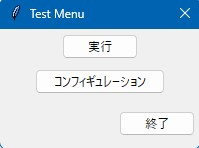
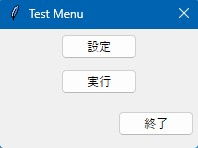
bugs in nocode document fixed

diff --git a/docs/no-code/index-ja.html b/docs/no-code/index-ja.html
@@ -700,7 +700,7 @@ header, .context-menu, .megamenu-content, footer{
 <title>index-ja</title>
 </head>
 <body class='typora-export os-windows'><div class='typora-export-content'>
-<div id='write'  class=''><h1 id='dialbbノーコードツールdialbb-ncドキュメント'><span>DialBBノーコードツール（DialBB-NC）ドキュメント</span></h1><h2 id='はじめに'><span>はじめに</span></h2><p><span>本ドキュメントはDialBBのノーコードツール（DialBB-NC）のドキュメントです．</span></p><h2 id='ver1xからの大きな変更点'><span>Ver1.xからの大きな変更点</span></h2><ul><li><p><strong><span>Python3.10では動かなくなりました</span></strong><span>．</span></p></li><li><p><span>言語理解，固有表現抽出がなくなり，代わりにスロット抽出が使えるようになりました．</span></p></li></ul><h2 id='動作環境'><span>動作環境</span></h2><p><span>Windows11，MacOSで動作します．</span></p><h2 id='インストール起動windows'><span>インストール・起動（Windows）</span></h2><h3 id='pythonのインストール'><span>Pythonのインストール</span></h3><ul><li><p><span>もし，すでにPythonがインストールされていれば，バージョンを確かめてください．インストールされていても，バージョンが3.11-3.14であれば，新しくインストールする必要はありません．3.10以前のPythonがインストールされている場合，使っていないならアンインストールしてください．使っている場合，DialBBの開発者（dialbb あっと c4a.jp）に相談してください．</span></p></li><li><p><span>Windows 11</span></p><ul><li><p><span>Pythonがインストールされていない場合，以下の手順でPythonをインストールします．</span></p><ul><li><p><span>ブラウザのアドレスバーに </span><a href='https://www.python.org/downloads/windows/' target='_blank' class='url'>https://www.python.org/downloads/windows/</a><span> を打ち込んでEnterキーを押します．</span></p></li><li><p><span>表示されている中から以下の部分を探します．以下は3.11.9ですが，3.11.x-3.14.xであれば，別のバージョンでも構いません．</span><strong><span>DialBB 2.0では3.11.x-3.14.xを利用してください．3.10.x以前と3.15.x以降は利用できません</span></strong><span>．</span></p></li></ul><p><img src="images/python-download-win.png" alt="python-install-win-ja"></p><ul><li><p><span>お持ちのPCが64bit OSの場合は，</span><a href='https://www.python.org/ftp/python/3.10.11/python-3.10.11-amd64.exe'><span>Windows installer (64-bit)</span></a><span>を，32bit OSの場合は</span><a href='https://www.python.org/ftp/python/3.10.11/python-3.10.11.exe'><span>Windows installer (32 -bit)</span></a><span>をクリックします．</span></p></li><li><p><span>「ダウンロード」フォルダに </span><code>python-3.13.14-amd64.exe</code><span>または</span><code>python-3.13.14-amd32.exe</code><span>というファイルができるので，ダブルクリックします．</span></p></li><li><p><span>以下の画面が現れます．</span></p><p><img src="images/python-setup-win.png" alt="python-setup-win"></p><ul><li><p><span>Add python.exe to PATHに</span><strong><span>チェックを入れてから</span></strong><span>Install Nowをクリックします．</span></p><p><img src="images/python-setup-win-path.png" alt="python-setup-win-path"></p></li><li><p><span>Pythonがインストールされます．</span></p></li></ul></li></ul></li></ul></li></ul><h3 id='dialbbのインストール'><span>DialBBのインストール</span></h3><ul><li><p><span>必要なファイルを以下の手順でダウンロードします．</span></p><ul><li><p><span>ブラウザから </span><a href='https://c4a-ri.github.io/dialbb/files/dialbb-setup.zip' target='_blank' class='url'>https://c4a-ri.github.io/dialbb/files/dialbb-setup.zip</a><span> にアクセスします．</span></p></li><li><p><code>ダウンロード</code><span>フォルダに</span><code>dialbb</code><span>ファイルがダウンロードされます．エクスプローラで</span><code>ダウンロード</code><span>フォルダを開いて確認してください．以下のようなファイルができているはずです．</span></p><p><img src="images/dialbb-setup-zip-icon.jpg" alt="dialbb-setup-zip-icon"></p><ul><li><p><span>このようにチャックの模様があるものをzipファイルと呼びます．環境によっては，</span><code>dialbb-setup.zip</code><span>という名前で表示されます．</span></p></li><li><p><span>複数回ダウンロードすると，新しくダウンロードしたものは</span><code>dialbb-setup(1)</code><span>のような名前になるので，その場合，</span><code>ダウンロード</code><span>フォルダの</span><code>dialbb-setup</code><span>を削除してからもう一度ダウンロードしてください．</span></p></li></ul></li></ul></li><li><p><span>エクスプローラで</span><code>dialbb-setup</code><span>アイコンの上にカーソルを持っていき右クリックし，「すべて展開」を選びます．出てきた画面で，「展開」を押してください．</span><code>dialbb-setup</code><span>フォルダができるので，それを開いてください．</span></p></li><li><p><span>install（環境によってはinstall.bat）をダブルクリックします．DialBBがインストールされます．</span></p><ul><li><p><span>「WindowsによってPCが保護されました」と出るかもしれません．その場合，「詳細情報」をクリックすると，「実行」ボタンが出てくるので，それを押してください．</span></p></li><li><p><code>Press any key to continue . . .</code><span>と表示されたらインストールは完了なので，何かキーを押して終了してください．</span></p></li></ul></li></ul><h3 id='起動'><span>起動</span></h3><p><code>dialbb-setup</code><span>フォルダ内で</span><code>start-dialbb-nc</code><span>（または</span><code>start-dialbb-nc.bat</code><span>）をダブルクリックします．</span></p><p><span>正常に起動するとメイン画面が表示されます．</span></p><div align="center">
+<div id='write'  class=''><h1 id='dialbbノーコードツールdialbb-ncドキュメント'><span>DialBBノーコードツール（DialBB-NC）ドキュメント</span></h1><h2 id='はじめに'><span>はじめに</span></h2><p><span>本ドキュメントはDialBBのノーコードツール（DialBB-NC）のドキュメントです．</span></p><h2 id='ver1xからの大きな変更点'><span>Ver1.xからの大きな変更点</span></h2><ul><li><p><strong><span>Python3.10では動かなくなりました</span></strong><span>．</span></p></li><li><p><span>言語理解，固有表現抽出がなくなり，代わりにスロット抽出が使えるようになりました．</span></p></li></ul><h2 id='動作環境'><span>動作環境</span></h2><p><span>Windows11，MacOSで動作します．</span></p><h2 id='インストール起動windows'><span>インストール・起動（Windows）</span></h2><h3 id='pythonのインストール'><span>Pythonのインストール</span></h3><ul><li><p><span>もし，すでにPythonがインストールされていれば，バージョンを確かめてください．インストールされていても，バージョンが3.11-3.14であれば，新しくインストールする必要はありません．3.10以前のPythonがインストールされている場合，使っていないならアンインストールしてください．使っている場合，DialBBの開発者（</span><code>dialbbあっとc4a.jp</code><span>）に相談してください（</span><code>”あっと&quot;</code><span>を</span><code>&quot;@&quot;</code><span>に置き換えてください。）．</span></p></li><li><p><span>Windows 11</span></p><ul><li><p><span>Pythonがインストールされていない場合，以下の手順でPythonをインストールします．</span></p><ul><li><p><span>ブラウザのアドレスバーに </span><a href='https://www.python.org/downloads/windows/' target='_blank' class='url'>https://www.python.org/downloads/windows/</a><span> を打ち込んでEnterキーを押します．</span></p></li><li><p><span>表示されている中から以下の部分を探します．以下は3.11.9ですが，3.11.x-3.14.xであれば，別のバージョンでも構いません．</span><strong><span>3.10.x以前と3.15.x以降は利用できません</span></strong><span>．</span></p></li></ul><p><img src="images/python-download-win.png" alt="python-install-win-ja"></p><ul><li><p><span>お持ちのPCが64bit OSの場合は，</span><a href='https://www.python.org/ftp/python/3.10.11/python-3.10.11-amd64.exe'><span>Windows installer (64-bit)</span></a><span>を，32bit OSの場合は</span><a href='https://www.python.org/ftp/python/3.10.11/python-3.10.11.exe'><span>Windows installer (32 -bit)</span></a><span>をクリックします．</span></p></li><li><p><span>「ダウンロード」フォルダに </span><code>python-3.13.14-amd64.exe</code><span>または</span><code>python-3.13.14-amd32.exe</code><span>というファイルができるので，ダブルクリックします．</span></p></li><li><p><span>以下の画面が現れます．</span></p><p><img src="images/python-setup-win.png" alt="python-setup-win"></p><ul><li><p><span>Add python.exe to PATHに</span><strong><span>チェックを入れてから</span></strong><span>Install Nowをクリックします．</span></p><p><img src="images/python-setup-win-path.png" alt="python-setup-win-path"></p></li><li><p><span>Pythonがインストールされます．</span></p></li></ul></li></ul></li></ul></li></ul><h3 id='dialbbのインストール'><span>DialBBのインストール</span></h3><ul><li><p><span>必要なファイルを以下の手順でダウンロードします．</span></p><ul><li><p><span>ブラウザから </span><a href='https://c4a-ri.github.io/dialbb/files/dialbb-setup.zip' target='_blank' class='url'>https://c4a-ri.github.io/dialbb/files/dialbb-setup.zip</a><span> にアクセスします．</span></p></li><li><p><code>ダウンロード</code><span>フォルダに</span><code>dialbb</code><span>ファイルがダウンロードされます．エクスプローラで</span><code>ダウンロード</code><span>フォルダを開いて確認してください．以下のようなファイルができているはずです．</span></p><p><img src="images/dialbb-setup-zip-icon.jpg" alt="dialbb-setup-zip-icon"></p><ul><li><p><span>このようにチャックの模様があるものをzipファイルと呼びます．環境によっては，</span><code>dialbb-setup.zip</code><span>という名前で表示されます．</span></p></li><li><p><span>複数回ダウンロードすると，新しくダウンロードしたものは</span><code>dialbb-setup(1)</code><span>のような名前になるので，その場合，</span><code>ダウンロード</code><span>フォルダの</span><code>dialbb-setup</code><span>を削除してからもう一度ダウンロードしてください．</span></p></li></ul></li></ul></li><li><p><span>エクスプローラで</span><code>dialbb-setup</code><span>アイコンの上にカーソルを持っていき右クリックし，「すべて展開」を選びます．出てきた画面で，「展開」を押してください．</span><code>dialbb-setup</code><span>フォルダができるので，それを開いてください．</span></p></li><li><p><span>install（環境によってはinstall.bat）をダブルクリックします．DialBBがインストールされます．</span></p><ul><li><p><span>「WindowsによってPCが保護されました」と出るかもしれません．その場合，「詳細情報」をクリックすると，「実行」ボタンが出てくるので，それを押してください．</span></p></li><li><p><code>Press any key to continue . . .</code><span>と表示されたらインストールは完了なので，何かキーを押して終了してください．</span></p></li></ul></li></ul><h3 id='起動'><span>起動</span></h3><p><code>dialbb-setup</code><span>フォルダ内で</span><code>start-dialbb-nc</code><span>（または</span><code>start-dialbb-nc.bat</code><span>）をダブルクリックします．</span></p><p><span>正常に起動するとメイン画面が表示されます．</span></p><div align="center">
   <img src="images/gui-main-ja.jpg" width="70%">
 </div><p>&nbsp;</p><h2 id='インストールと起動mac'><span>インストールと起動（Mac）</span></h2><h3 id='pythonのインストール-2'><span>Pythonのインストール</span></h3><p><span>Windowsの場合と同様，Python3.11-3.14がインストールされていれば，新たにインストールする必要はありません．</span></p><p><span>Pythonがインストールされていない場合，以下の手順でインストールしてください．</span></p><ul><li><p><a href='https://www.python.org/downloads/mac-osx/'><span>Pythonの公式ダウンロードサイト</span></a><span>にアクセスしてください．</span></p></li><li><p><span>適当なバージョン（例:3.13.14）の下の，</span><code>macOS 64-bit universal2 installer</code><span>をクリックし，ファイルをダウンロードします．</span></p></li><li><p><span>ダウンロードした </span><code>.pkg</code><span> ファイルを開いて，画面に表示される指示に従いインストールを進めてください．</span></p></li></ul><h3 id='dialbbのインストール-2'><span>DialBBのインストール</span></h3><p><a href='https://c4a-ri.github.io/dialbb/files/dialbb-setup.zip' target='_blank' class='url'>https://c4a-ri.github.io/dialbb/files/dialbb-setup.zip</a><span> から</span><code>dialbb-setup.zip</code><span>ファイルをダウンロードします．Downloadフォルダにダウンロードされます．ターミナルを開きます．適当なディレクトリ（DialBBディレクトリと呼びます）を作って移動してください．</span></p><p><span>そこで，</span></p><pre class="md-fences md-end-block ty-contain-cm modeLoaded" spellcheck="false" lang="sh"><div class="CodeMirror cm-s-inner cm-s-null-scroll CodeMirror-wrap" lang="sh"><div style="overflow: hidden; position: relative; width: 3px; height: 0px; top: 9.5162px; left: 7.98608px;"><textarea autocorrect="off" autocapitalize="off" spellcheck="false" tabindex="0" style="position: absolute; bottom: -1em; padding: 0px; width: 1000px; height: 1em; outline: none;"></textarea></div><div class="CodeMirror-scrollbar-filler" cm-not-content="true"></div><div class="CodeMirror-gutter-filler" cm-not-content="true"></div><div class="CodeMirror-scroll" tabindex="-1"><div class="CodeMirror-sizer" style="margin-left: 0px; margin-bottom: 0px; border-right-width: 0px; padding-right: 0px; padding-bottom: 0px;"><div style="position: relative; top: 0px;"><div class="CodeMirror-lines" role="presentation"><div role="presentation" style="position: relative; outline: none;"><div class="CodeMirror-measure"></div><div class="CodeMirror-measure"></div><div style="position: relative; z-index: 1;"></div><div class="CodeMirror-code" role="presentation"><div class="CodeMirror-activeline" style="position: relative;"><div class="CodeMirror-activeline-background CodeMirror-linebackground"></div><div class="CodeMirror-gutter-background CodeMirror-activeline-gutter" style="left: 0px; width: 0px;"></div><pre class=" CodeMirror-line " role="presentation"><span role="presentation" style="padding-right: 0.1px;">unzip ~/Downloads/dialbb-setup.zip</span></pre></div><pre class=" CodeMirror-line " role="presentation"><span role="presentation" style="padding-right: 0.1px;">pip install <span class="cm-attribute">--force-reinstall</span> *.whl</span></pre></div></div></div></div></div><div style="position: absolute; height: 0px; width: 1px; border-bottom: 0px solid transparent; top: 46px;"></div><div class="CodeMirror-gutters" style="display: none; height: 46px;"></div></div></div></pre><p><span>としてください．DialBBがインストールされます．</span></p><h3 id='起動-2'><span>起動</span></h3><p><span>ターミナルで以下を実行します．（ディレクトリはどこでも構いません）</span></p><pre class="md-fences md-end-block ty-contain-cm modeLoaded" spellcheck="false" lang="sh"><div class="CodeMirror cm-s-inner cm-s-null-scroll CodeMirror-wrap" lang="sh"><div style="overflow: hidden; position: relative; width: 3px; height: 0px; top: 9.5162px; left: 7.98608px;"><textarea autocorrect="off" autocapitalize="off" spellcheck="false" tabindex="0" style="position: absolute; bottom: -1em; padding: 0px; width: 1000px; height: 1em; outline: none;"></textarea></div><div class="CodeMirror-scrollbar-filler" cm-not-content="true"></div><div class="CodeMirror-gutter-filler" cm-not-content="true"></div><div class="CodeMirror-scroll" tabindex="-1"><div class="CodeMirror-sizer" style="margin-left: 0px; margin-bottom: 0px; border-right-width: 0px; padding-right: 0px; padding-bottom: 0px;"><div style="position: relative; top: 0px;"><div class="CodeMirror-lines" role="presentation"><div role="presentation" style="position: relative; outline: none;"><div class="CodeMirror-measure"><pre><span>xxxxxxxxxx</span></pre></div><div class="CodeMirror-measure"></div><div style="position: relative; z-index: 1;"></div><div class="CodeMirror-code" role="presentation"><div class="CodeMirror-activeline" style="position: relative;"><div class="CodeMirror-activeline-background CodeMirror-linebackground"></div><div class="CodeMirror-gutter-background CodeMirror-activeline-gutter" style="left: 0px; width: 0px;"></div><pre class=" CodeMirror-line " role="presentation"><span role="presentation" style="padding-right: 0.1px;">dialbb-nc</span></pre></div></div></div></div></div></div><div style="position: absolute; height: 0px; width: 1px; border-bottom: 0px solid transparent; top: 23px;"></div><div class="CodeMirror-gutters" style="display: none; height: 23px;"></div></div></div></pre><p><span>Macの場合少し画面が乱れます．（修正予定）</span></p><h2 id='アプリケーションの読み込み作成書き出し'><span>アプリケーションの読み込み・作成・書き出し</span></h2><h3 id='アプリケーションの読み込み新規作成'><span>アプリケーションの読み込み/新規作成</span></h3><ul><li><p><span>すでにあるアプリケーションを読み込む場合は，</span><code>選択</code><span>ボタンをクリックし，読み込むアプリケーションのzipファイルを選択し，</span><code>読み込み</code><span>を押します．</span></p><div align="center">
   <img src="images/gui-select-file-ja.jpg" width="60%">
@@ -708,15 +708,15 @@ header, .context-menu, .megamenu-content, footer{
   <img src="images/gui-create-ja.jpg" width="60%">
 </div></li><li><p><span>その時点で読み込まれているアプリケーションの名前（zipファイルの名前）がメイン画面の</span><code>Current application</code><span>のところに表示されます．</span></p></li></ul><h3 id='アプリケーションの書き出し'><span>アプリケーションの書き出し</span></h3><ul><li><p><code>書き出し</code><span>ボタンをクリックし，保存する場所/ファイル名を指定します，zipファイルにまとめて保存されます．  </span></p><div align="center">
   <img src="images/gui-export-ja.jpg" width="60%">
-</div></li></ul><h2 id='アプリケーションの起動停止'><span>アプリケーションの起動・停止</span></h2><h3 id='api-キーの登録'><span>API キーの登録</span></h3><p><span>最初にDialBB-NCを使うときや，DialBBのインストールをし直した後には，利用する大規模言語モデル（ChatGPTなど）のためのAPIキーの登録が必要です．例えば，ChatGPTを使う場合には，OpenAIのAPIキーの登録が必要です（ OpenAIのAPIキーの入手方法は別途「OpenAI API キー」などで検索して調べてください（少額ですが有料です）．登録は以下のようにします．</span></p><ul><li><p><code>APIキー</code><span>ボタンを押しますと設定画面が出ます． </span></p><div align="center">
+</div></li></ul><h2 id='アプリケーションの起動停止'><span>アプリケーションの起動・停止</span></h2><h3 id='api-キーの登録'><span>API キーの登録</span></h3><p><span>最初にDialBB-NCを使うときや，DialBBのインストールをし直した後には，利用する大規模言語モデル（ChatGPTなど）のためのAPIキーの登録が必要です．例えば，ChatGPTを使う場合には，OpenAIのAPIキーの登録が必要です（ OpenAIのAPIキーの入手方法は別途「OpenAI API キー」などで検索して調べてください.  少額ですが有料です）．登録は以下のようにします．</span></p><ul><li><p><code>APIキー</code><span>ボタンを押すと設定画面が出ます． </span></p><div align="center">
   <img src="images/api-ja.jpg" width="30%">
-</div></li><li><p><code>OPENAI_API_KEY</code><span>の右側に別途入手したOpenAIのAPIキーを入力し，</span><code>OK</code><span>ボタンを押します．</span><code>保存しました</code><span>という表示が出るので再度</span><code>OK</code><span>ボタンを押します．</span></p></li><li><p><span>後述の設定画面やテストでGeminiやClaudeを選ぶ場合は，それぞれ</span><code>GOOGLE_API_KEY</code><span>，</span><code>ANTHROPIC_API_KEY</code><span>が必要です．</span></p></li><li><p><span>入力したAPIキーは暗号化して保存されますが，DialBBのプログラムがあれば復号できるので，個人用PC以外では保存しないようにしてください．消去する場合には，各キーに他の文字列をセットするか，DialBBをアンインストールしてください．</span></p></li></ul><h3 id='対話の実行'><span>対話の実行</span></h3><ul><li><p><code>対話開始</code><span>ボタンを押すと対話ができます．</span><code>ユーザ入力</code><span>フィールドに発話を入力して対話をしてください．</span></p><div align="center">
+</div></li><li><p><code>OPENAI_API_KEY</code><span>の右側に別途入手したOpenAIのAPIキーを入力し，</span><code>OK</code><span>ボタンを押します．「保存しました」という表示が出るので再度</span><code>OK</code><span>ボタンを押します．</span></p></li><li><p><span>後述の設定画面やテストでGeminiやClaudeを選ぶ場合は，それぞれ</span><code>GOOGLE_API_KEY</code><span>，</span><code>ANTHROPIC_API_KEY</code><span>が必要です．</span></p></li><li><p><span>入力したAPIキーは暗号化して保存されますが，DialBBのプログラムがあれば復号できるので，個人用PC以外では保存しないようにしてください．消去する場合には，各キーに他の文字列をセットするか，DialBBをアンインストールしてください．</span></p></li></ul><h3 id='対話の実行'><span>対話の実行</span></h3><ul><li><p><code>対話開始</code><span>ボタンを押すと対話ができます．</span><code>ユーザ入力</code><span>フィールドに発話を入力して対話をしてください．</span></p><div align="center">
   <img src="images/chat-ja.jpg" width="60%">
 </div></li></ul><h3 id='テスト'><span>テスト</span></h3><p><span>ユーザシミュレーションを利用したテストができます．後で詳細に説明します．</span></p><h3 id='対話サーバの使い方上級用'><span>対話サーバの使い方(上級用)</span></h3><p><span>Webサーバとしてアプリケーションを動かし，他のプログラムと連携させたりできます．</span></p><h4 id='起動-3'><span>起動</span></h4><ul><li><p><code>サーバ起動</code><span>ボタンをクリックします．アプリケーションサーバが起動します．</span></p></li><li><p><span>ChromeやEdgeなどのブラウザを開き，アドレスバーに</span><code>http://localhost:8080/</code><span>を打ち込んでEnterを押します．以下のようなチャット画面が表示されます．</span></p><div align="center">
   <img src="images/frontend.png" width="60%">
-</div></li><li><p><code>start dialogue</code><span>ボタンを押すと会話が開始されます．</span></p></li><li><p><span>再度最初から会話を始めたい場合はブラウザのリロードボタンを押してください．</span></p></li><li><p><code>http://localhost:8080/test</code><span> にアクセスするとシンプルな画面が出ます．</span></p></li></ul><h4 id='停止'><span>停止</span></h4><ul><li><p><span>メインGUIで</span><code>サーバ停止</code><span>ボタンを押すとアプリケーションサーバが停止します．</span></p></li></ul><h4 id='ログ'><span>ログ</span></h4><ul><li><p><span>ブラウザからアクセスしても画面が出ない場合や対話がうまくいかない場合は，</span><code>ログ表示</code><span>ボタンを押し，ログを見て近くのエンジニアか</span><a href='mailto:[email redacted]'><span>DialBB開発者</span></a><span>に相談してください．</span></p></li><li><p><span>ログはホームフォルダ（ホームディレクトリ）の中の</span><code>.dialbb_nc_logs</code><span>フォルダの中に書きだされます．</span></p><ul><li><p><span>ホームフォルダは，Windowsの場合，</span><code>C:\Users\&lt;ユーザ名&gt;</code><span>です．</span></p></li><li><p><span>ログは日付毎にフォルダにまとまっています．</span></p></li><li><p><span>ログファイルは</span><code>&lt;アプリケーションが起動した時間&gt;.txt</code><span>です．</span></p></li></ul></li></ul><h3 id='アンインストール'><span>アンインストール</span></h3><p><code>dialbb-setup</code><span>フォルダの中にある，uninstallというアイコンをダブルクリックするとDialBBがアンインストールできます．</span></p><h2 id='アプリケーションの編集'><span>アプリケーションの編集</span></h2><h3 id='コンフィギュレーションの変更'><span>コンフィギュレーションの変更</span></h3><p><span>  </span><code>設定</code><span>ボタンを押すと，以下の画面が表示されます．</span></p>  <div align="center">
+</div></li><li><p><code>start dialogue</code><span>ボタンを押すと会話が開始されます．</span></p></li><li><p><span>再度最初から会話を始めたい場合はブラウザのリロードボタンを押してください．</span></p></li><li><p><code>http://localhost:8080/test</code><span> にアクセスするとシンプルな画面が出ます．</span></p></li></ul><h4 id='停止'><span>停止</span></h4><ul><li><p><span>メインGUIで</span><code>サーバ停止</code><span>ボタンを押すとアプリケーションサーバが停止します．</span></p></li></ul><h4 id='ログ'><span>ログ</span></h4><ul><li><p><span>ブラウザからアクセスしても画面が出ない場合や対話がうまくいかない場合は，</span><code>サーバログ表示</code><span>ボタンを押し，ログを見て近くのエンジニアか</span><a href='mailto:[email redacted]'><span>DialBB開発者</span></a><span>に相談してください．</span></p></li><li><p><span>ログはホームフォルダ（ホームディレクトリ）の中の</span><code>.dialbb_nc_logs</code><span>フォルダの中に書きだされます．</span></p><ul><li><p><span>ホームフォルダは，Windowsの場合，</span><code>C:\Users\&lt;ユーザ名&gt;</code><span>です．</span></p></li><li><p><span>ログは日付毎にフォルダにまとまっています．</span></p></li><li><p><span>ログファイルは</span><code>&lt;アプリケーションが起動した時間&gt;.txt</code><span>です．</span></p></li></ul></li></ul><h3 id='アンインストール'><span>アンインストール</span></h3><p><code>dialbb-setup</code><span>フォルダの中にある，uninstallというアイコンをダブルクリックするとDialBBがアンインストールできます．</span></p><h2 id='アプリケーションの編集'><span>アプリケーションの編集</span></h2><h3 id='コンフィギュレーションの変更'><span>コンフィギュレーションの変更</span></h3><p><span>  </span><code>設定</code><span>ボタンを押すと，以下の画面が表示されます．</span></p>  <div align="center">
     <img src="images/edit-config-ja.jpg" width="50%">
-  </div><p><span>以下が各編集項目の説明です．</span></p><figure class='table-figure'><table><thead><tr><th><span>編集項目</span></th><th><span>説明</span></th></tr></thead><tbody><tr><td><span>スロット抽出を行いますか？</span></td><td><span>固有表現抽出（後述）を行うかどうかを選択します．(上級用)</span></td></tr><tr><td><span>モデル</span></td><td><span>利用する大規模言語モデル（LLM）を選択します．</span><code>その他</code><span>を押すと，プルダウンにないモデルを追加できます．</span></td></tr><tr><td><span>状況</span></td><td><span>LLMのプロンプトに書く状況を入力します．1行ごとに状況を記述します．</span></td></tr><tr><td><span>ペルソナ</span></td><td><span>LLMのプロンプトに書くシステムのペルソナを入力します．1行ごとにペルソナを記述します．</span></td></tr><tr><td><span>注意事項</span></td><td><span>LLMのプロンプトに書く注意事項を記述します．（システムノードでのみ用いられます．）</span></td></tr></tbody></table></figure><hr /><h3 id='シナリオファイルの編集'><span>シナリオファイルの編集</span></h3><p><code>シナリオ編集</code><span>ボタンを押すと，シナリオエディタが表示されます．</span></p><h4 id='シナリオエディタの概要'><span>シナリオエディタの概要</span></h4><p><span>シナリオは，システムノードとユーザノードがリンクで接続されたものです．システムノードではシステム発話を記述し，ユーザノードでは，遷移の条件を記述します．priorityの値が高い順に遷移の条件を調べていき，条件が満たされれば，その次のシステムノードに遷移します．</span><strong><span>どのユーザノードの遷移の条件も満たされない場合，同じシステムノードに戻って，システム発話が生成されます．</span></strong></p><p><span>システムノードは複数のユーザにリンクが出て行き，ユーザノードからは一つだけのノードにリンクが出て行きます．（ノード右側コネクタが出口，ノード左側が入口です）</span></p><p><span>以下の説明の画像には古いバージョンのものがあります．ver2.0以降では，</span><strong><span>ユーザノードには発話タイプがありません</span></strong><span>．</span></p><p><span>システム発話や遷移の条件の記述については，後で説明します．</span></p><div align="center">
+  </div><p><span>以下が各編集項目の説明です．</span></p><figure class='table-figure'><table><thead><tr><th><span>編集項目</span></th><th><span>説明</span></th></tr></thead><tbody><tr><td><span>スロット抽出を行いますか？</span></td><td><span>固有表現抽出（後述）を行うかどうかを選択します．(上級用)</span></td></tr><tr><td><span>モデル</span></td><td><span>利用する大規模言語モデル（LLM）を選択します．</span><code>追加</code><span>を押すと，プルダウンにないモデルを追加できます．</span></td></tr><tr><td><span>状況</span></td><td><span>LLMのプロンプトに書く状況を入力します．1行ごとに状況を記述します．</span></td></tr><tr><td><span>ペルソナ</span></td><td><span>LLMのプロンプトに書くシステムのペルソナを入力します．1行ごとにペルソナを記述します．</span></td></tr><tr><td><span>注意事項</span></td><td><span>LLMのプロンプトに書く注意事項を記述します．（システムノードでのみ用いられます．）</span></td></tr></tbody></table></figure><hr /><h3 id='シナリオファイルの編集'><span>シナリオファイルの編集</span></h3><p><code>シナリオ編集</code><span>ボタンを押すと，シナリオエディタが表示されます．</span></p><h4 id='シナリオエディタの概'><span>シナリオエディタの概</span></h4><p><span>シナリオは，システムノードとユーザノードがリンクで接続されたものです．システムノードではシステム発話を記述し，ユーザノードでは，遷移の条件を記述します．priorityの値が高い順に遷移の条件を調べていき，条件が満たされれば，その次のシステムノードに遷移します．</span><strong><span>どのユーザノードの遷移の条件も満たされない場合，同じシステムノードに戻って，システム発話が生成されます．</span></strong></p><p><span>システムノードは複数のユーザにリンクが出て行き，ユーザノードからは一つだけのノードにリンクが出て行きます．（ノード右側コネクタが出口，ノード左側が入口です）</span></p><p><span>以下の説明の画像には古いバージョンのものがあります．ver2.0以降では，</span><strong><span>ユーザノードには発話タイプがありません</span></strong><span>．</span></p><p><span>システム発話や遷移の条件の記述については，後で説明します．</span></p><div align="center">
   <img src="images/scenario-editor-ja.jpg" width="90%">
 </div><h4 id='ノードの追加'><span>ノードの追加</span></h4><p><span>背景で右クリック し，</span><code>システムノード追加</code><span>か</span><code>ユーザノード追加</code><span>を選択するとシステムノードかユーザノードが新規追加されます． </span></p><div align="center">
   <img src="images/add-node-ja.jpg" width="80%">
@@ -726,7 +726,7 @@ header, .context-menu, .megamenu-content, footer{
   <img src="images/sys-setting-ja.jpg" width="40%"> <img src="images/user-setting-ja.jpg" width="48%">
 </div><p><span>ノードの編集の仕方は後述します．</span></p><h4 id='コネクタの接続削除'><span>コネクタの接続・削除</span></h4><p><span>ノード右側〇を左クリックし，他ノードの左側〇へドラッグして接続します．</span></p><div align="center">
   <img src="images/editor-connection-ja.jpg" width="50%">
-</div><p><span>削除はコネクター上で右クリック し</span><code>削除</code><span>を選択するか，選択した状態でDelキーを押すと削除されます．</span></p><div align="center">
+</div><p><span>削除はコネクタ上で右クリック し</span><code>削除</code><span>を選択するか，選択した状態でDelキーを押すと削除されます．</span></p><div align="center">
   <img src="images/editor-conn-del-ja.jpg" width="50%">
 </div><h4 id='元に戻すやり直し'><span>元に戻す／やり直し</span></h4><p><span>変更を戻すときには上部の</span><code>元に戻す</code><span>ボタン，やり直しをする時は</span><code>やり直し</code><span>ボタンを押してください．コントロールキーを押しながら</span><code>z</code><span>／</span><code>y</code><span>でも操作が可能です.  </span></p><h4 id='保存'><span>保存</span></h4><p><span>上部の</span><code>保存</code><span>ボタンをクリックすると保存します．保存しないでエディタを終了した場合は変更データが失われます．</span></p><h4 id='再読み込み'><span>再読み込み</span></h4><p><span>上部の</span><code>再読み込み</code><span>ボタンをクリックすると最後に保存されたデータを読み込みます．大規模な状態遷移図の編集ではこまめに保存をしておけばその状態まで復元することが可能です．</span></p><h4 id='拡大縮小'><span>拡大／縮小</span></h4><p><span>マウスの</span><code>ホイール</code><span>を使いズームイン／ズームアウトが可能です．  </span></p><h4 id='キャンバスの移動'><span>キャンバスの移動</span></h4><p><span>マウスの</span><code>中ボタン</code><span>またはコントロールキーを押しながら</span><code>左クリック</code><span>で全体をドラッグできます．</span></p><h4 id='シナリオエディタの終了'><span>シナリオエディタの終了</span></h4><p><span>メインGUIで</span><code>シナリオ編集終了</code><span>ボタンを押すとエディタウィンドウが閉じます．</span></p><h4 id='システムノードの編集の仕方'><span>システムノードの編集の仕方</span></h4><p><span>システムノードをダブルクリックすると以下のような入力ダイアログが表示されますので，中身を書き換えて</span><code>保存</code><span>ボタンを押します．</span><code>キャンセル</code><span>ボタンを押すと保存せずに閉じます．</span></p><div align="center">
   <img src="images/sys-setting-ja.jpg" width="50%">
@@ -745,20 +745,20 @@ header, .context-menu, .megamenu-content, footer{
   <img src="images/user-setting-ja.jpg" width="50%">
 </div><p><code>優先度</code><span>はこのユーザノードの優先度を表す整数です．一つのシステムノードからつながっているユーザノードのうち，priority numberの高い順に条件がチェックされます．この数字は，シナリオを保存する度にリセットされ，大きいものから順に100, 90, 80, ...に変更されます．</span></p><p><code>遷移の条件</code><span>にはこのユーザノードの条件を書きます．両方が満たされたとき，このユーザノードの次のシステムノードに移行します．</span></p><p><code>遷移の条件</code><span>には，この遷移が使われる条件を書きます．条件が複数ある場合は，&quot;;&quot;でつなぎます．条件には以下のようなものが書けます．</span></p><ul><li><p><code>$インストラクション$</code><span> </span>
 <span>ChatGPTにインストラクションを与えて条件判定をさせます．このとき，コンフィギュレーションで指定したsituationとpersonaが用いられます．</span>
-<span>例： </span><code>$ユーザが会話に飽きたかどうかを判断してください．$</code><span> </span></p></li><li><p><code>$$$&lt;プロンプトテンプレート&gt;$$$</code></p><p><span>ChatGPTにプロンプトを与えて条件判定をさせます．プロンプトはプロンプトテンプレートから作られます．プロンプトテンプレートは改行を含んでも構いません．以下が例です．</span></p><pre class="md-fences md-end-block ty-contain-cm modeLoaded" spellcheck="false" lang="" style="break-inside: unset;"><div class="CodeMirror cm-s-inner cm-s-null-scroll CodeMirror-wrap" lang=""><div style="overflow: hidden; position: relative; width: 3px; height: 0px; top: 9.5162px; left: 7.98615px;"><textarea autocorrect="off" autocapitalize="off" spellcheck="false" tabindex="0" style="position: absolute; bottom: -1em; padding: 0px; width: 1000px; height: 1em; outline: none;"></textarea></div><div class="CodeMirror-scrollbar-filler" cm-not-content="true"></div><div class="CodeMirror-gutter-filler" cm-not-content="true"></div><div class="CodeMirror-scroll" tabindex="-1"><div class="CodeMirror-sizer" style="margin-left: 0px; margin-bottom: 0px; border-right-width: 0px; padding-right: 0px; padding-bottom: 0px;"><div style="position: relative; top: 0px;"><div class="CodeMirror-lines" role="presentation"><div role="presentation" style="position: relative; outline: none;"><div class="CodeMirror-measure"><pre><span>xxxxxxxxxx</span></pre></div><div class="CodeMirror-measure"></div><div style="position: relative; z-index: 1;"></div><div class="CodeMirror-code" role="presentation" style=""><div class="CodeMirror-activeline" style="position: relative;"><div class="CodeMirror-activeline-background CodeMirror-linebackground"></div><div class="CodeMirror-gutter-background CodeMirror-activeline-gutter" style="left: 0px; width: 0px;"></div><pre class=" CodeMirror-line " role="presentation"><span role="presentation" style="padding-right: 0.1px;">$$$</span></pre></div><pre class=" CodeMirror-line " role="presentation"><span role="presentation" style="padding-right: 0.1px;"># 状況</span></pre><pre class=" CodeMirror-line " role="presentation"><span role="presentation" style="padding-right: 0.1px;"><span cm-text="" cm-zwsp="">
+<span>例： </span><code>$ユーザが会話に飽きたかどうかを判断してください．$</code><span> </span></p></li><li><p><code>$$$&lt;プロンプトテンプレート&gt;$$$</code></p><p><span>ChatGPTにプロンプトを与えて条件判定をさせます．プロンプトはプロンプトテンプレートから作られます．プロンプトテンプレートは改行を含んでも構いません．以下が例です．</span></p><pre class="md-fences md-end-block ty-contain-cm modeLoaded" spellcheck="false" lang="" style="break-inside: unset;"><div class="CodeMirror cm-s-inner cm-s-null-scroll CodeMirror-wrap" lang=""><div style="overflow: hidden; position: relative; width: 3px; height: 0px; top: 9.5162px; left: 7.98615px;"><textarea autocorrect="off" autocapitalize="off" spellcheck="false" tabindex="0" style="position: absolute; bottom: -1em; padding: 0px; width: 1000px; height: 1em; outline: none;"></textarea></div><div class="CodeMirror-scrollbar-filler" cm-not-content="true"></div><div class="CodeMirror-gutter-filler" cm-not-content="true"></div><div class="CodeMirror-scroll" tabindex="-1"><div class="CodeMirror-sizer" style="margin-left: 0px; margin-bottom: 0px; border-right-width: 0px; padding-right: 0px; padding-bottom: 0px;"><div style="position: relative; top: 0px;"><div class="CodeMirror-lines" role="presentation"><div role="presentation" style="position: relative; outline: none;"><div class="CodeMirror-measure"></div><div class="CodeMirror-measure"></div><div style="position: relative; z-index: 1;"></div><div class="CodeMirror-code" role="presentation" style=""><div class="CodeMirror-activeline" style="position: relative;"><div class="CodeMirror-activeline-background CodeMirror-linebackground"></div><div class="CodeMirror-gutter-background CodeMirror-activeline-gutter" style="left: 0px; width: 0px;"></div><pre class=" CodeMirror-line " role="presentation"><span role="presentation" style="padding-right: 0.1px;">$$$</span></pre></div><pre class=" CodeMirror-line " role="presentation"><span role="presentation" style="padding-right: 0.1px;"># 状況</span></pre><pre class=" CodeMirror-line " role="presentation"><span role="presentation" style="padding-right: 0.1px;"><span cm-text="" cm-zwsp="">
 </span></span></pre><pre class=" CodeMirror-line " role="presentation"><span role="presentation" style="padding-right: 0.1px;">{situation}</span></pre><pre class=" CodeMirror-line " role="presentation"><span role="presentation" style="padding-right: 0.1px;"><span cm-text="" cm-zwsp="">
 </span></span></pre><pre class=" CodeMirror-line " role="presentation"><span role="presentation" style="padding-right: 0.1px;"># あなたのペルソナ</span></pre><pre class=" CodeMirror-line " role="presentation"><span role="presentation" style="padding-right: 0.1px;"><span cm-text="" cm-zwsp="">
 </span></span></pre><pre class=" CodeMirror-line " role="presentation"><span role="presentation" style="padding-right: 0.1px;">{persona}</span></pre><pre class=" CodeMirror-line " role="presentation"><span role="presentation" style="padding-right: 0.1px;"><span cm-text="" cm-zwsp="">
 </span></span></pre><pre class=" CodeMirror-line " role="presentation"><span role="presentation" style="padding-right: 0.1px;"># 現在までの対話</span></pre><pre class=" CodeMirror-line " role="presentation"><span role="presentation" style="padding-right: 0.1px;"><span cm-text="" cm-zwsp="">
 </span></span></pre><pre class=" CodeMirror-line " role="presentation"><span role="presentation" style="padding-right: 0.1px;">{dialogue_history}</span></pre><pre class=" CodeMirror-line " role="presentation"><span role="presentation" style="padding-right: 0.1px;"><span cm-text="" cm-zwsp="">
 </span></span></pre><pre class=" CodeMirror-line " role="presentation"><span role="presentation" style="padding-right: 0.1px;"># タスク</span></pre><pre class=" CodeMirror-line " role="presentation"><span role="presentation" style="padding-right: 0.1px;"><span cm-text="" cm-zwsp="">
-</span></span></pre><pre class=" CodeMirror-line " role="presentation"><span role="presentation" style="padding-right: 0.1px;">ユーザが理由を言ったかどうか判断し，yesかnoで答えてください．</span></pre><pre class=" CodeMirror-line " role="presentation"><span role="presentation" style="padding-right: 0.1px;">$$$</span></pre></div></div></div></div></div><div style="position: absolute; height: 0px; width: 1px; border-bottom: 0px solid transparent; top: 392px;"></div><div class="CodeMirror-gutters" style="display: none; height: 392px;"></div></div></div></pre><p><span>  </span><code>{</code><span>と</span><code>}</code><span>で囲まれている部分はプレースホルダです．システムノードと同じものを使うことができます．</span></p></li><li><p><code>#&lt;言語理解のスロット名&gt; == &quot;&lt;文字列&gt;&quot;</code><span>/ </span><code>#&lt;言語理解のスロット名&gt; != &quot;&quot;</code><span> (上級用)</span></p><p><span>直前のユーザ発話の言語理解で得られたスロットの値が文字列に一致するかどうか（</span><code>==</code><span>）または一致しないかどうか（</span><code>!=</code><span>）を判定します．</span></p><p><span>例：</span><code>#好きなラーメン==&quot;豚骨ラーメン&quot;</code><span>(上級用)</span></p><p><span>スロットが空の場合，空文字列になります．例えば</span><code>好きなラーメン</code><span>スロットの値が空であれば，条件，</span><code>#好きなラーメン==&quot;&quot;</code><span>は満たされます．</span></p></li><li><p><code>TT &gt; &lt;ターン数&gt;</code></p><p><span>対話開始からのユーザ発話の回数が</span><code>&lt;ターン数&gt;</code><span>を超えた場合に条件が満たされます．</span>
+</span></span></pre><pre class=" CodeMirror-line " role="presentation"><span role="presentation" style="padding-right: 0.1px;">ユーザが理由を言ったかどうか判断し，yesかnoで答えてください．</span></pre><div class="" style="position: relative;"><pre class=" CodeMirror-line " role="presentation"><span role="presentation" style="padding-right: 0.1px;">$$$</span></pre></div></div></div></div></div></div><div style="position: absolute; height: 0px; width: 1px; border-bottom: 0px solid transparent; top: 392px;"></div><div class="CodeMirror-gutters" style="display: none; height: 392px;"></div></div></div></pre><p><span>  </span><code>{</code><span>と</span><code>}</code><span>で囲まれている部分はプレースホルダです．システムノードと同じものを使うことができます．</span></p></li><li><p><code>#&lt;言語理解のスロット名&gt; == &quot;&lt;文字列&gt;&quot;</code><span>/ </span><code>#&lt;言語理解のスロット名&gt; != &quot;&quot;</code><span> (上級用)</span></p><p><span>直前のユーザ発話の言語理解で得られたスロットの値が文字列に一致するかどうか（</span><code>==</code><span>）または一致しないかどうか（</span><code>!=</code><span>）を判定します．</span></p><p><span>例：</span><code>#好きなラーメン==&quot;豚骨ラーメン&quot;</code><span>(上級用)</span></p><p><span>スロットが空の場合，空文字列になります．例えば</span><code>好きなラーメン</code><span>スロットの値が空であれば，条件，</span><code>#好きなラーメン==&quot;&quot;</code><span>は満たされます．</span></p></li><li><p><code>TT &gt; &lt;ターン数&gt;</code></p><p><span>対話開始からのユーザ発話の回数が</span><code>&lt;ターン数&gt;</code><span>を超えた場合に条件が満たされます．</span>
 <span>例：</span><code>TT&gt;10</code></p></li><li><p><code>TS &gt; &lt;ターン数&gt;</code></p><p><span>その状態（システムノード）でのユーザ発話の回数が</span><code>&lt;ターン数&gt;</code><span>を超えた場合に条件が満たされます．</span>
-<span>例：</span><code>TS&gt;5</code></p></li></ul><p><code>遷移時のアクション</code><span>は進んだ使い方の時のみ利用するのでここでは説明しません．</span></p><p>&nbsp;</p><h3 id='スロット抽出知識の編集上級用'><span>スロット抽出知識の編集（上級用）</span></h3><p><span>スロット抽出とは，それまでの対話から必要な情報を取り出すことです．必要な情報のことをスロットと言います．例えば，気象情報を検索する対話システムならば，「地名」や「日付」などがスロットにになります．</span>
-<span>この「地名」や「日付」をスロット名，実際に抽出される地名や日付の値をスロット値と呼びます．このスロット値をシナリオのユーザノードで遷移の条件として使うことができます．</span></p><p><span>対話システムに言語理解を行わせるには，スロット抽出知識が必要です．スロット抽出知識には以下のような情報を記述します．</span></p><ul><li><p><span>どのようなスロットがあるのか？</span></p></li><li><p><span>スロット値の例</span></p></li><li><p><span>対話とそれから得られるスロットの例</span></p></li></ul><p><span>さらに，各スロットの同義語も記述することができます．</span></p><p><span>同じ単語が別のスロットになることもあります．例えば，券売機の対話システムで「東京から新大阪までの乗車券」と言えば，乗車駅＝東京，降車駅＝新大阪，券種別＝乗車券となりますが，乗車駅スロットと降車駅スロットは両方とも駅名です．</span></p><p><span>言語理解知識を編集するには，メイン画面で</span><code>言語理解知識</code><span>を選択します．Excelが起動して言語理解知識を読み込むので，編集して保存してください． （OpenOfficeなど，Excel以外のものを使っている場合にはそちらが立ち上がります．表計算ソフトを使っていない場合にはご相談ください）</span></p><p><span>スロット抽出知識のExcelファイルは，</span><code>dialogues</code><span>シートとslots</span><code>シートからなります．
-以下が</code><span>dialogues`シートの例です．</span></p><p>&nbsp;</p><figure class='table-figure'><table><thead><tr><th><span>flag</span></th><th><span>dialogue</span></th><th><span>slots</span></th></tr></thead><tbody><tr><td><span>Y</span></td><td><span>システム：好きなラーメンは何ですか？     </span><br /><span>ユーザ：豚骨ラーメンです</span></td><td><span>好きなラーメン=豚骨ラーメン</span></td></tr><tr><td><span>Y</span></td><td><span>システム：好きなラーメン教えて</span><br/><span>ユーザ：豚骨ラーメン</span><br/><span>システム：博多の？</span><br/><span>ユーザ：そう</span></td><td><span>地方=博多，好きなラーメン=豚骨ラーメン</span></td></tr></tbody></table></figure><ul><li><p><code>flag</code><span>列は</span><strong><span>使いません．</span></strong></p></li><li><p><code>dialogues</code><span>列は対話例です．</span></p></li><li><p><code>slots</code><span>には，</span><code>&lt;スロット名&gt;=&lt;スロット値&gt;, ... ,&lt;スロット名&gt;=&lt;スロット値&gt;</code><span>の形で発話に含まれるスロットを書きます．カンマは全角でも読点でも構いません．</span></p></li></ul><p><span>以下は</span><code>slots</code><span>シートの例です．</span></p><p>&nbsp;</p><figure class='table-figure'><table><thead><tr><th><span>flag</span></th><th><span>slot name</span></th><th><span>entity</span></th><th><span>synonyms</span></th></tr></thead><tbody><tr><td><span>Y</span></td><td><span>好きなラーメン</span></td><td><span>豚骨ラーメン</span></td><td><span>とんこつラーメン，豚骨スープのラーメン，豚骨</span></td></tr><tr><td><span>Y</span></td><td><span>好きなラーメン</span></td><td><span>味噌ラーメン</span></td><td><span>みそらーめん，みそ味のラーメン，味噌</span></td></tr><tr><td><span>Y</span></td><td><span>地方</span></td><td><span>博多</span></td><td>&nbsp;</td></tr><tr><td><span>Y</span></td><td><span>ユーザの名前</span></td><td><span>太郎</span></td><td>&nbsp;</td></tr></tbody></table></figure><p><code>flag</code><span>列は使いません．</span></p><ul><li><p><code>slot name</code><span>列にはスロット名を書きます．</span></p></li><li><p><code>entity</code><span>列にはスロット値になり得るものの例を書きます．</span></p></li><li><p><code>synonyms</code><span>列には，スロット値の同義語をカンマまたは読点で並べて書きます．同義語がスロット値になった場合，entity列のものに置き換えられます．</span></p></li></ul><h2 id='ユーザシミュレータを用いたテスト'><span>ユーザシミュレータを用いたテスト</span></h2><p><span>ユーザシミュレータを用いたテストができます．メインメニューで</span><code>テスト</code><span>ボタンを押すと以下のテストメニュー画面が現れます．</span></p><div align="center">
+<span>例：</span><code>TS&gt;5</code></p></li></ul><p><code>遷移時のアクション</code><span>は進んだ使い方の時のみ利用するのでここでは説明しません．</span></p><p>&nbsp;</p><h3 id='スロット抽出知識の編集上級用'><span>スロット抽出知識の編集（上級用）</span></h3><p><span>スロット抽出とは，それまでの対話から必要な情報を取り出すことです．必要な情報のことをスロットと言います．例えば，気象情報を検索する対話システムならば，「地名」や「日付」などがスロットなります．</span>
+<span>この「地名」や「日付」をスロット名，実際に抽出される地名や日付の値をスロット値と呼びます．このスロット値をシナリオのユーザノードで遷移の条件として使うことができます．</span></p><p><span>対話システムに言語理解を行わせるには，スロット抽出知識が必要です．スロット抽出知識には以下のような情報を記述します．</span></p><ul><li><p><span>どのようなスロットがあるのか？</span></p></li><li><p><span>スロット値の例</span></p></li><li><p><span>対話とそれから得られるスロットの例</span></p></li></ul><p><span>さらに，各スロットの同義語も記述することができます．</span></p><p><span>同じ単語が別のスロットになることもあります．例えば，券売機の対話システムで「東京から新大阪までの乗車券」と言えば，乗車駅＝東京，降車駅＝新大阪，券種別＝乗車券となりますが，乗車駅スロットと降車駅スロットは両方とも駅名です．</span></p><p><span>言語理解知識を編集するには，メイン画面で</span><code>言語理解知識</code><span>を選択します．Excelが起動して言語理解知識を読み込むので，編集して保存してください． （OpenOfficeなど，Excel以外のものを使っている場合にはそちらが立ち上がります．表計算ソフトを使っていない場合にはご相談ください）</span></p><p><span>スロット抽出知識のExcelファイルは，</span><code>dialogues</code><span>シートと</span><code>slots</code><span>シートからなります．</span>
+<span>以下が</span><code>dialogues</code><span>シートの例です．</span></p><p>&nbsp;</p><figure class='table-figure'><table><thead><tr><th><span>flag</span></th><th><span>dialogue</span></th><th><span>slots</span></th></tr></thead><tbody><tr><td><span>Y</span></td><td><span>システム：好きなラーメンは何ですか？     </span><br /><span>ユーザ：豚骨ラーメンです</span></td><td><span>好きなラーメン=豚骨ラーメン</span></td></tr><tr><td><span>Y</span></td><td><span>システム：好きなラーメン教えて</span><br/><span>ユーザ：豚骨ラーメン</span><br/><span>システム：博多の？</span><br/><span>ユーザ：そう</span></td><td><span>地方=博多，好きなラーメン=豚骨ラーメン</span></td></tr></tbody></table></figure><ul><li><p><code>flag</code><span>列は</span><strong><span>使いません．</span></strong></p></li><li><p><code>dialogue</code><span>列は対話例です．</span></p></li><li><p><code>slots</code><span>には，</span><code>&lt;スロット名&gt;=&lt;スロット値&gt;, ... ,&lt;スロット名&gt;=&lt;スロット値&gt;</code><span>の形で発話に含まれるスロットを書きます．カンマは全角でも読点でも構いません．</span></p></li></ul><p><span>以下は</span><code>slots</code><span>シートの例です．</span></p><p>&nbsp;</p><figure class='table-figure'><table><thead><tr><th><span>flag</span></th><th><span>slot name</span></th><th><span>entity</span></th><th><span>synonyms</span></th></tr></thead><tbody><tr><td><span>Y</span></td><td><span>好きなラーメン</span></td><td><span>豚骨ラーメン</span></td><td><span>とんこつラーメン，豚骨スープのラーメン，豚骨</span></td></tr><tr><td><span>Y</span></td><td><span>好きなラーメン</span></td><td><span>味噌ラーメン</span></td><td><span>みそらーめん，みそ味のラーメン，味噌</span></td></tr><tr><td><span>Y</span></td><td><span>地方</span></td><td><span>博多</span></td><td>&nbsp;</td></tr><tr><td><span>Y</span></td><td><span>ユーザの名前</span></td><td><span>太郎</span></td><td>&nbsp;</td></tr></tbody></table></figure><p><code>flag</code><span>列は使いません．</span></p><ul><li><p><code>slot name</code><span>列にはスロット名を書きます．</span></p></li><li><p><code>entity</code><span>列にはスロット値になり得るものの例を書きます．</span></p></li><li><p><code>synonyms</code><span>列には，スロット値の同義語をカンマまたは読点で並べて書きます．同義語がスロット値になった場合，entity列のものに置き換えられます．</span></p></li></ul><h2 id='ユーザシミュレータを用いたテスト'><span>ユーザシミュレータを用いたテスト</span></h2><p><span>ユーザシミュレータを用いたテストができます．メインメニューで</span><code>テスト</code><span>ボタンを押すと以下のテストメニュー画面が現れます．</span></p><div align="center">
   <img src="images/test-menu-ja.jpg" width="30%">
-</div><p><span>コンフィギュレーションを押すと，シミュレータの設定が表示されます．</span></p><div align="center">
+</div><p><code>設定</code><span>を押すと，シミュレータの設定が表示されます．</span></p><div align="center">
   <img src="images/test-config-ja.jpg" width="60%">
 </div><p><code>モデル</code><span>はシミュレータが使うモデルで，最大ターン数はシミュレーション対話のユーザ発話の最大数です．</span><code>プロンプト</code><span>はシミュレータのプロンプトです．適宜編集して</span><code>OK</code><span>ボタンを押して終了してください．</span></p><p><span>テストメニュー画面で</span><code>実行</code><span>ボタンを押すとテストが行えます．</span></p><p>&nbsp;</p><p>&nbsp;</p></div></div>
 </body>